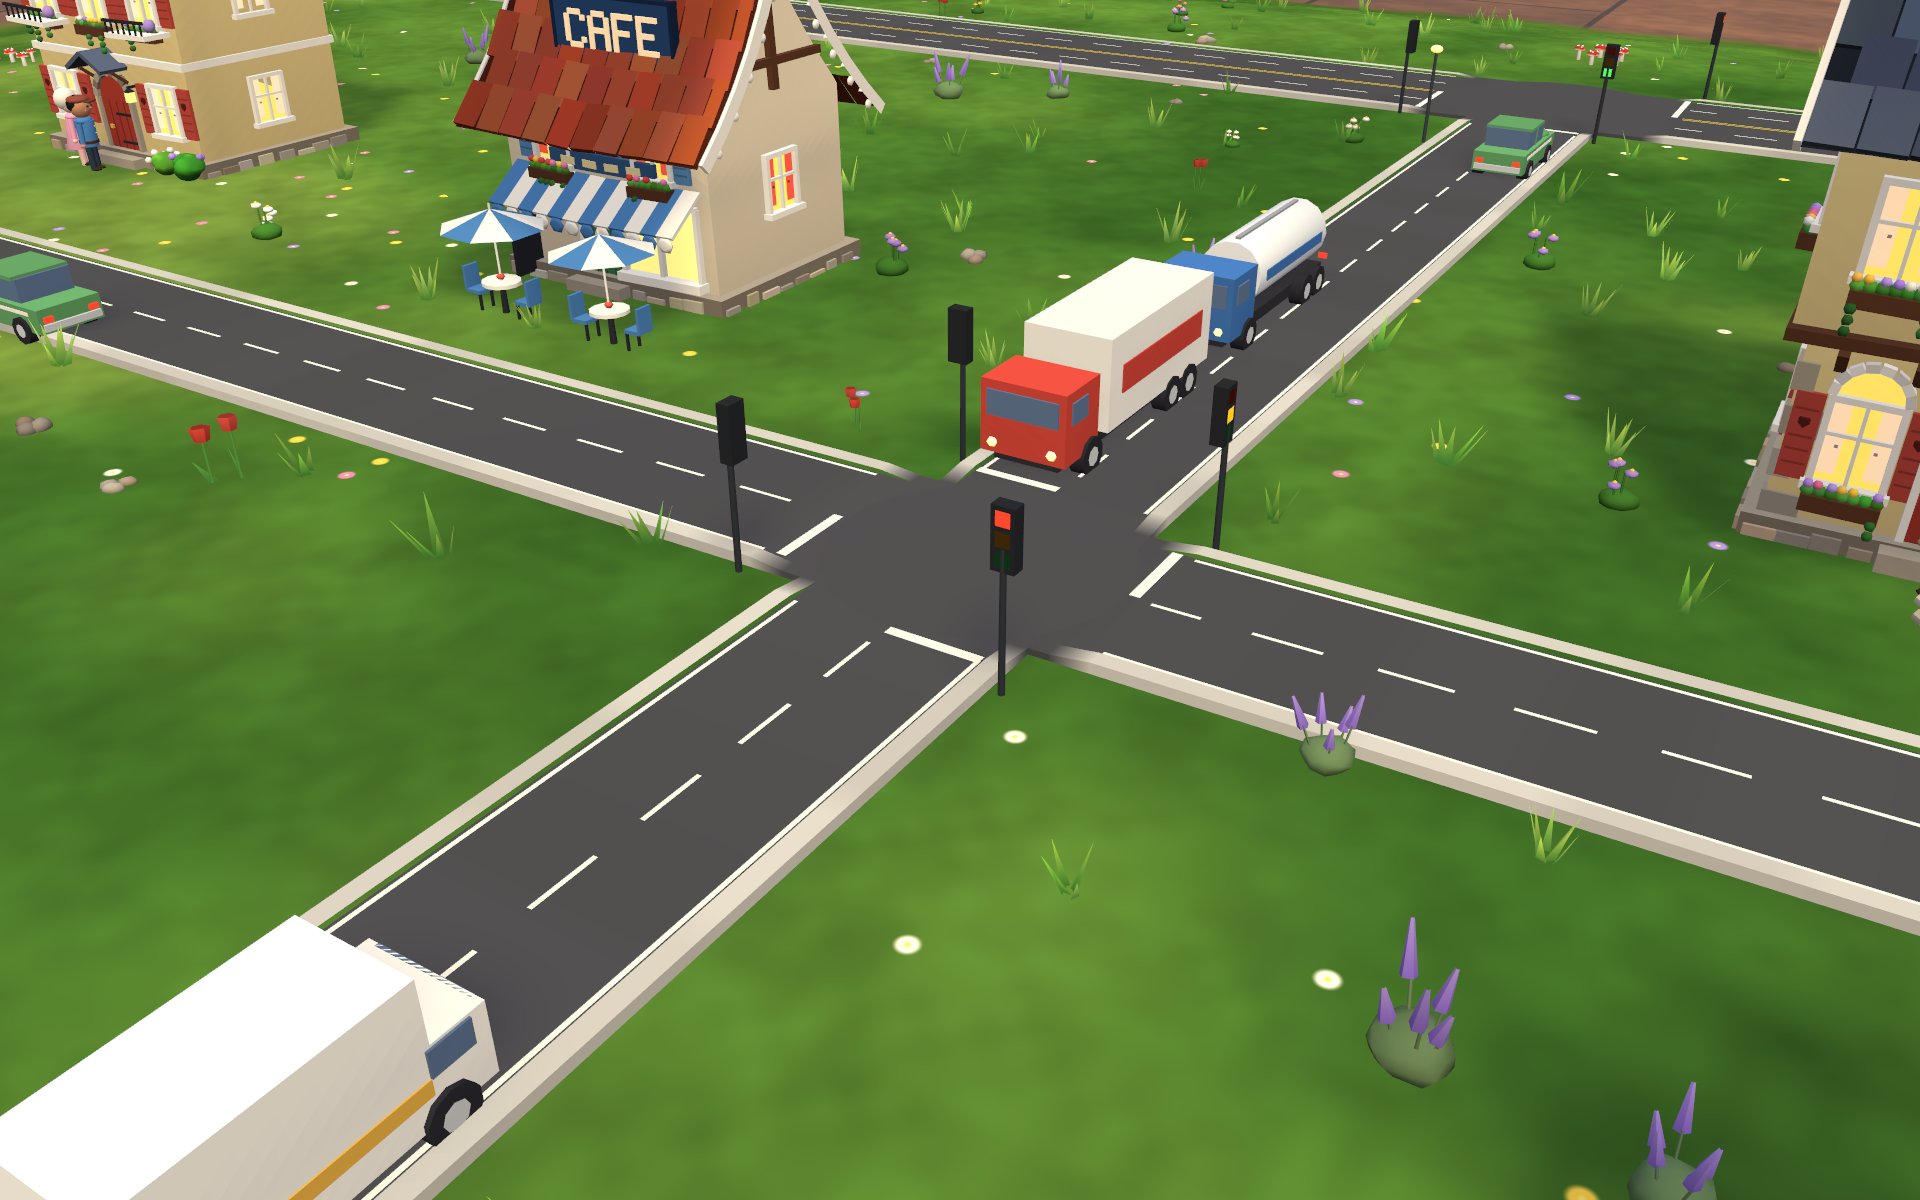
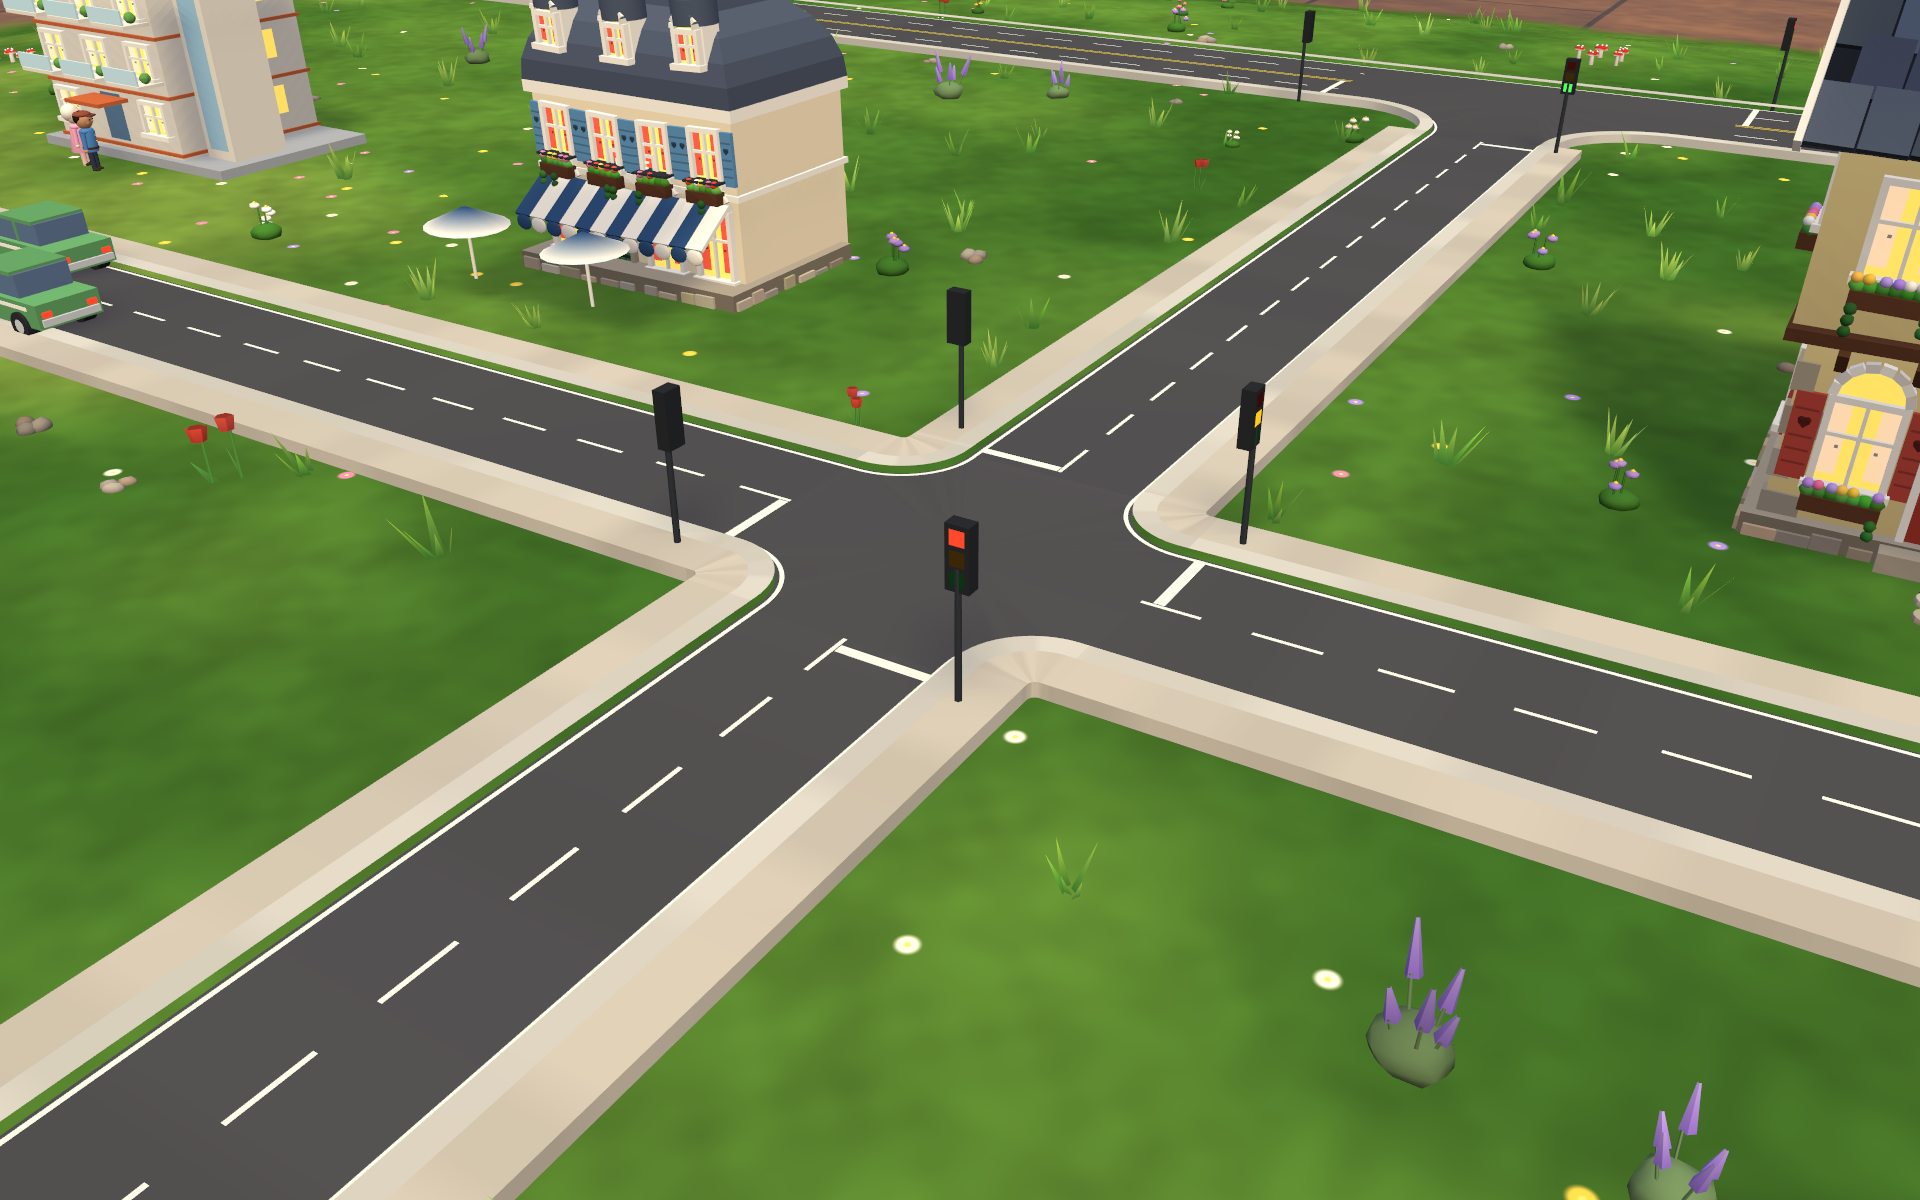
Kerbs you can see: twice as high and a third wider; people stand on the pavement
A street's kerb is 2.2 mm high (about 16 cm in the miniature's scale; was 1.2 mm) and 6 mm wide (was 4.5); the
road is wider by the same so the carriageway keeps its width (a street's half-width 31.5 mm, a highway's 47.5).
People's feet were on the bare ground, sunk into the raised pavement and the asphalt; they now stand on them - up
the kerb on a pavement, on the asphalt crossing a street, on a path's gravel.

diff --git a/Assets/Wonderland/Scripts/World/PathSystem.cs b/Assets/Wonderland/Scripts/World/PathSystem.cs
@@ -52,7 +52,7 @@ namespace Wonderland
         public static bool IsRoad(int kind) => kind == (int)PathKind.Road || kind == (int)PathKind.Highway;
         /// <summary>Ways cars drive on.</summary>
         public static bool IsCarWay(int kind) => IsRoad(kind) || kind == (int)PathKind.Lane;
-        public static float HalfWidth(int kind) => kind switch { 0 => 0.03f, 1 => 0.02f, 2 => 0.012f, 3 => 0.008f, 4 => 0.003f, 5 => 0.007f, 7 => 0.046f, _ => 0.006f };
+        public static float HalfWidth(int kind) => kind switch { 0 => 0.0315f, 1 => 0.02f, 2 => 0.012f, 3 => 0.008f, 4 => 0.003f, 5 => 0.007f, 7 => 0.0475f, _ => 0.006f };   // (a road's kerbs included)
 
         public void Init(TerrainField field, Material lit, Func<TrackNetwork> railway)
         {
@@ -218,11 +218,24 @@ namespace Wonderland
             int kind = Lines[line].kind;
             float hw = HalfWidth(kind);
             if (!IsCarWay(kind)) return d < hw ? 1 : 0;
-            if (d < hw - RoadKerb * 0.5f) return OnCrossing != null && OnCrossing(p) ? 3 : 2;
+            if (d < hw - KerbWidth * 0.5f) return OnCrossing != null && OnCrossing(p) ? 3 : 2;
             return d < hw + Pavement(kind) + 0.004f ? 1 : 0;
         }
 
-        private const float RoadKerb = 0.0045f;
+        /// <summary>
+        /// How far above the bare ground someone walking at a point stands: up on a road's pavement (over the kerb), on
+        /// its asphalt, on a path's gravel - so feet stand on the ways instead of sinking into them.
+        /// </summary>
+        public float WalkLift(Vector2 p)
+        {
+            float d = Query(p, 0.09f, li => IsWay(Lines[li].kind), out int line);
+            if (line < 0) return 0f;
+            int kind = Lines[line].kind;
+            float hw = HalfWidth(kind);
+            if (!IsRoad(kind)) return d < hw ? 0.0014f : 0f;
+            if (d < hw - KerbWidth) return RoadLift;
+            return d < hw + Pavement(kind) ? RoadLift + KerbHeight : 0f;
+        }
 
         public float WayDistance(Vector2 p, out int kind)
         {

diff --git a/Assets/Wonderland/Scripts/World/PathSystem.Roads.cs b/Assets/Wonderland/Scripts/World/PathSystem.Roads.cs
@@ -13,7 +13,7 @@ namespace Wonderland
     /// </summary>
     public sealed partial class PathSystem
     {
-        public const float StreetRadius = 0.05f, HighwayRadius = 0.18f, KerbWidth = 0.0045f;
+        public const float StreetRadius = 0.05f, HighwayRadius = 0.18f, KerbWidth = 0.006f;
 
         /// <summary>Where roads meet: its centre, how far out its roads stop (its mouths), and the directions of its arms (away from the centre).</summary>
         public sealed class RoadJunction
@@ -542,7 +542,8 @@ namespace Wonderland
         private struct RoadSample { public Vector2 P, T; public float Y, S; public bool Junction; }
 
         private static readonly Color Paving = new(0.78f, 0.75f, 0.7f);
-        private const float KerbHeight = 0.0012f, Skirt = 0.004f, RoadLift = 0.0016f;
+        public const float KerbHeight = 0.0022f, RoadLift = 0.0016f;   // (a kerb about 16 cm high in the miniature's scale)
+        private const float Skirt = 0.005f;
         /// <summary>How far before a junction a road eases to the junction's height.</summary>
         private const float JunctionBlend = 0.06f;
 

diff --git a/Assets/Wonderland/Scripts/World/PeopleSystem.cs b/Assets/Wonderland/Scripts/World/PeopleSystem.cs
@@ -491,7 +491,7 @@ namespace Wonderland
             return new Vector2(q.x, q.z);
         }
 
-        private float GroundAt(Vector2 p) => OnPlatform(p, out float top) ? top : world.Bridges.Deck(p, out float deck, out _) ? deck : world.Terrain.SurfaceAt(p.x, p.y);
+        private float GroundAt(Vector2 p) => OnPlatform(p, out float top) ? top : world.Bridges.Deck(p, out float deck, out _) ? deck : world.Terrain.SurfaceAt(p.x, p.y) + world.Paths.WalkLift(p);
 
         private bool TrainRunning => world.Trains.AnyRunning;
 
